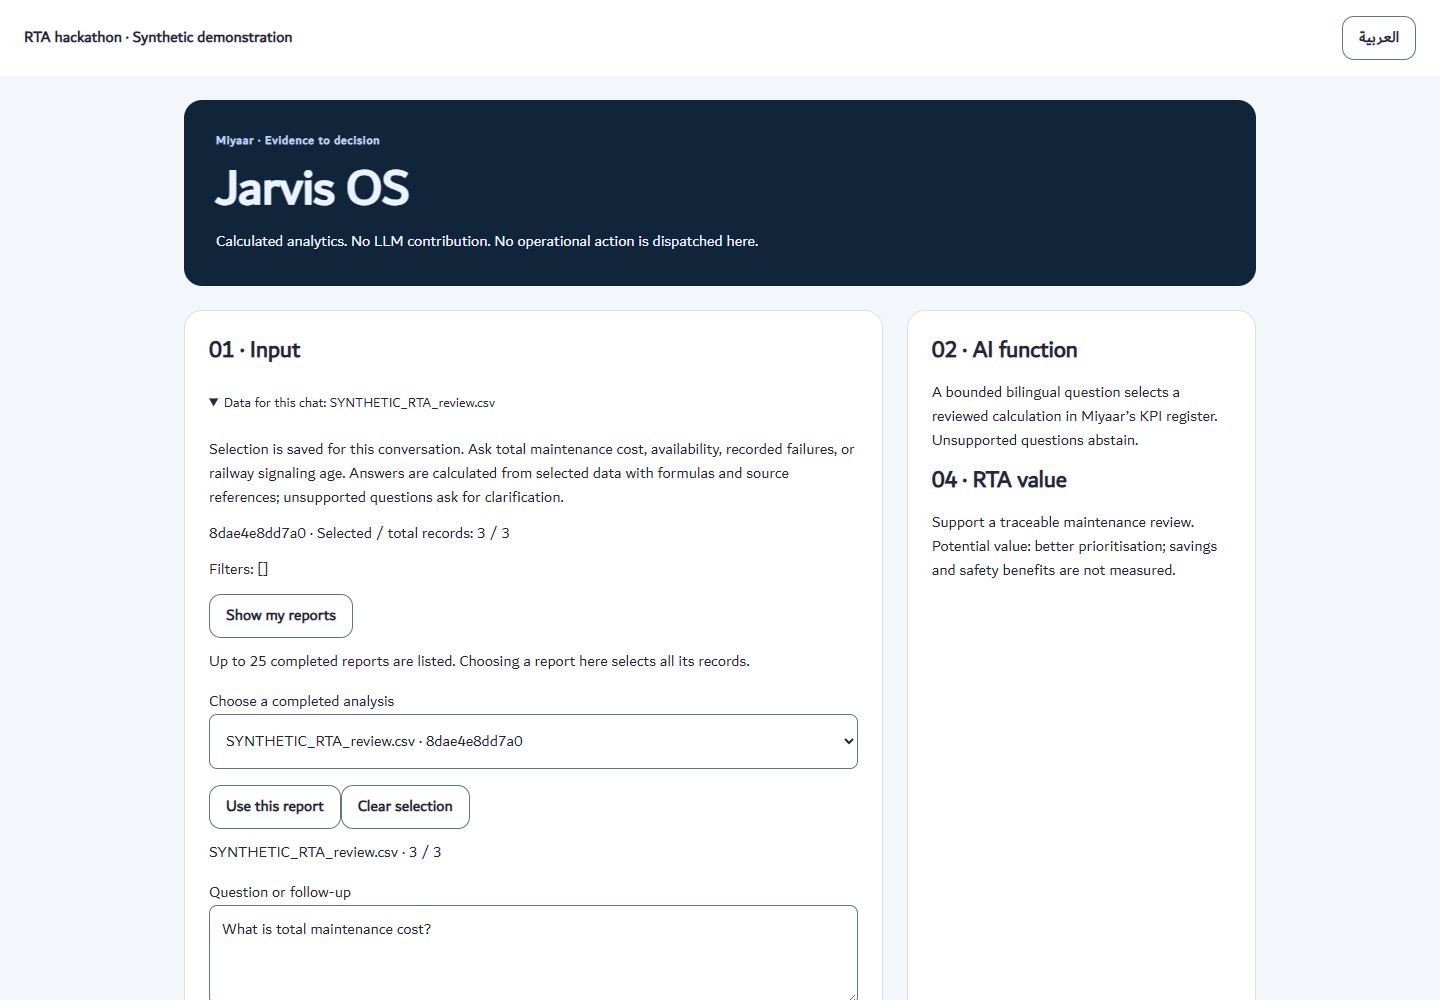
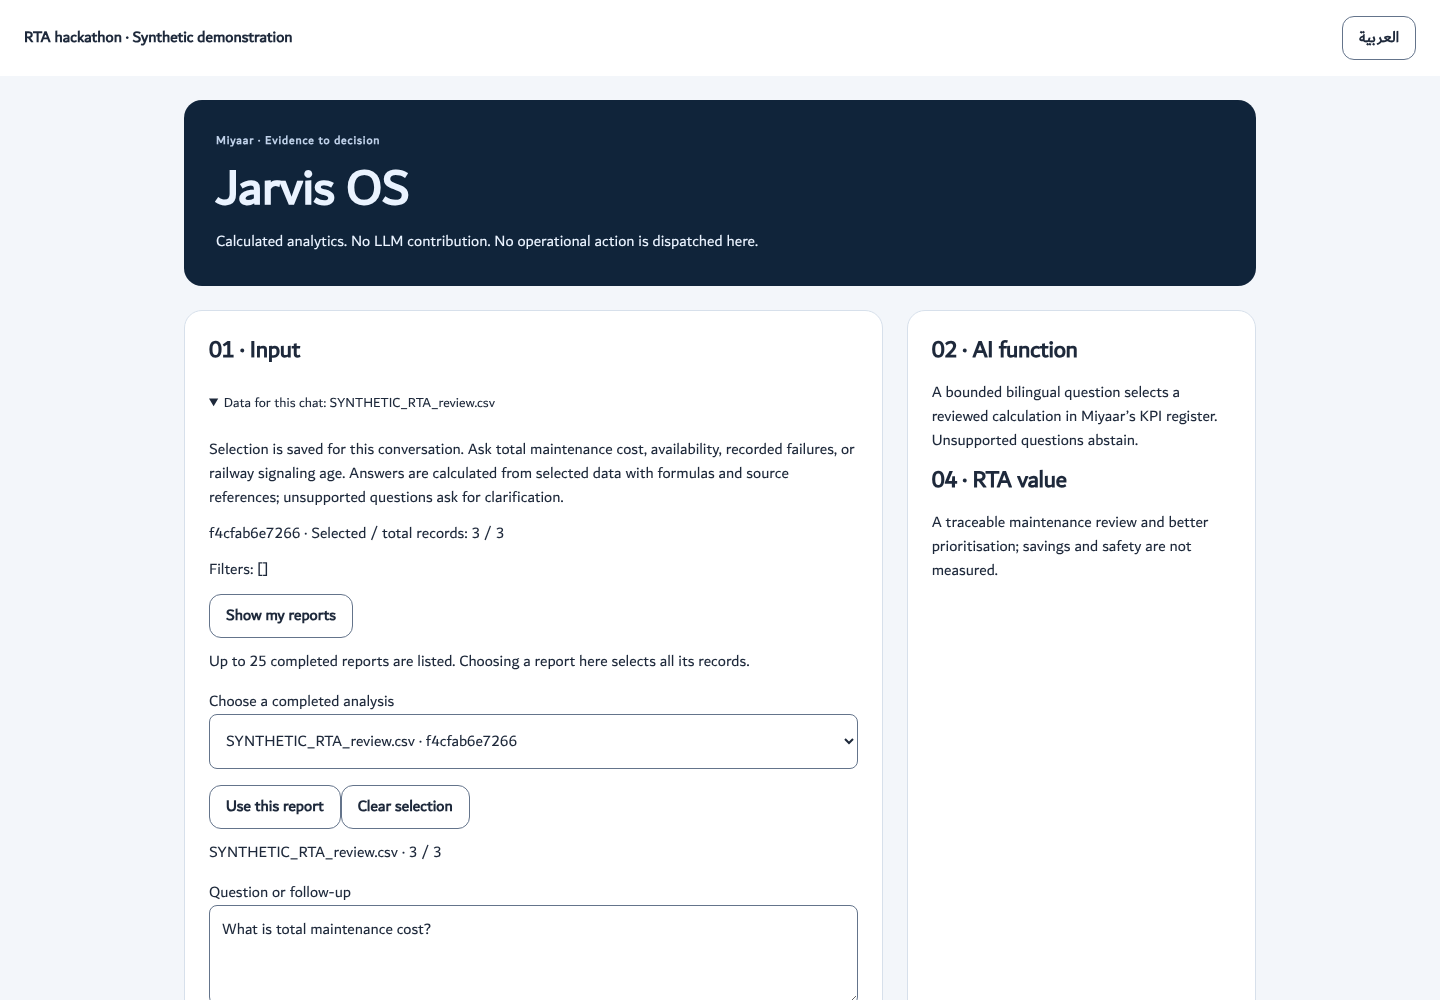
fix: keep Jarvis out of the first-load bundle so the budget passes
The first version added 465 bytes to first-load JavaScript (100,042 of
100,000), failing the Interface budget step in CI, RMD evidence checks
and UI Budget Fast. The Jarvis query transport moves from the shared API
module into the lazy Jarvis chunk (exposed as jarvisApi.query, which also
removes the shared module's import from a feature), and four strings are
shortened in both languages with the same meaning. First load 99,956
bytes, total 262,966 bytes, stable across builds; the five Jarvis browser
journeys pass and the screenshots are refreshed for the shortened text.

Claude-Session: https://claude.ai/code/session_013QuA9ZJjZFprHsrGeG8vHp

diff --git a/frontend/src/features/chat/JarvisWorkspace.test.tsx b/frontend/src/features/chat/JarvisWorkspace.test.tsx
@@ -1,7 +1,6 @@
 import { act, fireEvent, render, screen, waitFor } from '@testing-library/react'
 import { beforeEach, expect, it, vi } from 'vitest'
-import { JarvisWorkspace, type JarvisAnswer } from './JarvisWorkspace'
-import { api } from '../../shared/api'
+import { JarvisWorkspace, jarvisApi, type JarvisAnswer } from './JarvisWorkspace'
 import type { SessionState } from '../../shared/types'
 import { applyLocale } from '../../i18n'
 import { dataChatMessages } from './dataChatMessages'
@@ -13,12 +12,12 @@ const result: JarvisAnswer = { text: '500 · https://example.invalid/ref · ops@
 beforeEach(() => { vi.restoreAllMocks(); applyLocale('en') })
 function question() { fireEvent.change(screen.getByRole('textbox'), { target: { value: 'What is total maintenance cost?' } }) }
 it('preserves evidence, separates speech and confirms only an explicit local review', async () => {
-  vi.spyOn(api, 'jarvisQuery').mockResolvedValue(result)
+  vi.spyOn(jarvisApi, 'query').mockResolvedValue(result)
   render(<JarvisWorkspace session={session} />); question()
   fireEvent.click(screen.getByRole('button', { name: 'Calculate from selected report' }))
   await screen.findByText(result.text)
   expect(screen.getByText(/Maintenance cost: 500 unit not declared/)).toHaveTextContent('Measurement coverage is unavailable')
-  expect(api.jarvisQuery).toHaveBeenCalledWith('s1', 'What is total maintenance cost?', context, 'en', expect.any(AbortSignal))
+  expect(jarvisApi.query).toHaveBeenCalledWith('s1', 'What is total maintenance cost?', context, 'en', expect.any(AbortSignal))
   expect(screen.getByRole('button', { name: 'Confirm local review' })).toBeDisabled()
   fireEvent.click(screen.getByRole('checkbox'))
   fireEvent.click(screen.getByRole('button', { name: 'Confirm local review' }))
@@ -29,7 +28,7 @@ it('preserves evidence, separates speech and confirms only an explicit local rev
 })
 it('deduplicates active requests and ignores late replies after interrupt', async () => {
   let resolve!: (value: JarvisAnswer) => void
-  const call = vi.spyOn(api, 'jarvisQuery').mockReturnValue(new Promise(r => { resolve = r }))
+  const call = vi.spyOn(jarvisApi, 'query').mockReturnValue(new Promise(r => { resolve = r }))
   render(<JarvisWorkspace session={session} />); question()
   const ask = screen.getByRole('button', { name: 'Calculate from selected report' })
   fireEvent.click(ask); fireEvent.click(ask); expect(call).toHaveBeenCalledTimes(1)
@@ -40,7 +39,7 @@ it('deduplicates active requests and ignores late replies after interrupt', asyn
 })
 it('invalidates answer on dataset changes and suppresses errors from superseded requests', async () => {
   let reject!: (reason: Error) => void
-  vi.spyOn(api, 'jarvisQuery').mockReturnValue(new Promise((_,r) => { reject = r }))
+  vi.spyOn(jarvisApi, 'query').mockReturnValue(new Promise((_,r) => { reject = r }))
   const view = render(<JarvisWorkspace session={session} />); question()
   fireEvent.click(screen.getByRole('button', { name: 'Calculate from selected report' }))
   view.rerender(<JarvisWorkspace session={{ ...session, data_context: { ...context, dataset_name: 'NEW.csv', analysis_revision: 'c'.repeat(64) } }} />)
@@ -49,7 +48,7 @@ it('invalidates answer on dataset changes and suppresses errors from superseded 
   expect(screen.getByRole('textbox')).toHaveValue('')
 })
 it('shows unavailable service without making up output', async () => {
-  vi.spyOn(api, 'jarvisQuery').mockRejectedValue(new Error('offline'))
+  vi.spyOn(jarvisApi, 'query').mockRejectedValue(new Error('offline'))
   render(<JarvisWorkspace session={session} />); question()
   fireEvent.click(screen.getByRole('button', { name: 'Calculate from selected report' }))
   await waitFor(() => expect(screen.getByRole('alert')).toHaveTextContent('No answer was confirmed'))

diff --git a/frontend/src/i18n/jarvis.ts b/frontend/src/i18n/jarvis.ts
@@ -4,14 +4,14 @@ export const jarvisMessages = definePack({
   boundary: 'Calculated analytics. No LLM contribution. No operational action is dispatched here.',
   input: '01 · Input', function: '02 · AI function', output: '03 · Output', value: '04 · RTA value',
   functionText: 'A bounded bilingual question selects a reviewed calculation in Miyaar’s KPI register. Unsupported questions abstain.',
-  valueText: 'Support a traceable maintenance review. Potential value: better prioritisation; savings and safety benefits are not measured.',
+  valueText: 'A traceable maintenance review and better prioritisation; savings and safety are not measured.',
   question: 'Question or follow-up', ask: 'Calculate from selected report', cost: 'What is total maintenance cost?',
   follow: 'What is availability?', missing: 'Predict failures tomorrow', prompt: 'Choose a report, then ask a supported question.',
   stop: 'Stop / interrupt', muted: 'Mute audio', unmute: 'Enable audio controls', working: 'Calculating…',
   failed: 'Service unavailable or context changed. Reload the report selection and retry. No answer was confirmed.',
   stopped: 'Request interrupted. No answer retained. This read-only calculation does not change reports.',
   result: 'Calculated evidence', source: 'Source and scope',
-  review: 'Human review', recommendation: 'Proposed next step: check the recorded costs, downtime and source completeness with the maintenance owner before choosing an intervention.',
+  review: 'Human review', recommendation: 'Next step: check costs, downtime and source completeness with the maintenance owner before any intervention.',
   acknowledge: 'I reviewed the evidence and its limitations', confirm: 'Confirm local review', confirmed: 'Review confirmed for this answer in this browser tab only. No approval, publication or work order was created.',
   reviewLimit: 'Review resets when the question, report or language changes. It is not an engineering approval.',
   noValue: 'Not measured', speech: 'Spoken summary', speechHelp: 'Speech uses a separate summary. Full references, URLs and IDs remain unchanged in the evidence.',
@@ -27,7 +27,7 @@ export const jarvisMessages = definePack({
   boundary: 'تحليلات محسوبة دون مساهمة نموذج لغوي. لا يُرسل أي إجراء تشغيلي من هنا.',
   input: '01 · المدخلات', function: '02 · وظيفة الذكاء الاصطناعي', output: '03 · المخرجات', value: '04 · القيمة لهيئة الطرق والمواصلات',
   functionText: 'يختار سؤال محدد بالعربية أو الإنجليزية عملية حسابية مراجعة من سجل مؤشرات معيار. الأسئلة غير المدعومة لا تنتج تخمينات.',
-  valueText: 'دعم مراجعة صيانة قابلة للتتبع. القيمة المحتملة: تحسين ترتيب الأولويات؛ لم تُقَس وفورات أو فوائد للسلامة.',
+  valueText: 'مراجعة صيانة قابلة للتتبع وترتيب أفضل للأولويات؛ لم تُقَس الوفورات أو السلامة.',
   question: 'السؤال أو سؤال المتابعة', ask: 'احسب من التقرير المحدد', cost: 'ما إجمالي تكلفة الصيانة؟',
   follow: 'ما هو التوافر؟', missing: 'توقع الأعطال غداً', prompt: 'اختر تقريراً ثم اطرح سؤالاً مدعوماً.',
   stop: 'إيقاف / مقاطعة', muted: 'كتم الصوت', unmute: 'تفعيل أدوات الصوت', working: 'جارٍ الحساب…',

diff --git a/frontend/src/features/chat/JarvisWorkspace.tsx b/frontend/src/features/chat/JarvisWorkspace.tsx
@@ -1,5 +1,5 @@
 import { useEffect, useRef, useState } from 'react'
-import { api } from '../../shared/api'
+import { request as send } from '../../shared/api'
 import type { DataContext, SessionState } from '../../shared/types'
 import { usePack } from '../../i18n/pack'
 import { jarvisMessages } from '../../i18n/jarvis'
@@ -17,7 +17,16 @@ export interface JarvisAnswer {
       records_unmeasured?: number; scale?: string; reason?: string }[] }
 }
 
-/** Read-only query transport; selection uses Miyaar's existing permission-bound API. */
+/** Read-only query transport, kept in this lazy chunk so first load stays within budget. */
+export const jarvisApi = { query: (id: string, text: string, context: DataContext, language: 'en' | 'ar', signal: AbortSignal) =>
+  send<JarvisAnswer>(`/api/sessions/${encodeURIComponent(id)}/data-query`, {
+    method: 'POST', body: JSON.stringify({ text, language, scope: {
+      run_id: context.run_id, dataset_id: context.dataset_id, source_sha256: context.source_sha256,
+      analysis_revision: context.analysis_revision, filters: context.filters,
+    } }), signal,
+  }) }
+
+/** Selection uses Miyaar's existing permission-bound API. */
 export function JarvisWorkspace({ session, disabled = false }: { session: SessionState; disabled?: boolean }) {
   const { t, locale } = usePack(jarvisMessages)
   const readOnly = useReadOnly()
@@ -47,7 +56,7 @@ export function JarvisWorkspace({ session, disabled = false }: { session: Sessio
     const controller = new AbortController(); request.current = controller
     setStatus('working'); setAsked(draft.trim())
     try {
-      const result = await api.jarvisQuery(session.session_id, draft.trim(), context, locale, controller.signal)
+      const result = await jarvisApi.query(session.session_id, draft.trim(), context, locale, controller.signal)
       if (token !== generation.current) return
       setAnswer(result); setStatus('idle')
     } catch { if (token === generation.current) setStatus('failed') }

diff --git a/frontend/src/shared/api.ts b/frontend/src/shared/api.ts
@@ -1,6 +1,5 @@
-import type { JarvisAnswer } from '../features/chat/JarvisWorkspace'
 import { translate } from '../i18n'
-import type { AuthConfig, ColumnMapping, DataContext, DataContextChoices, DatasetDetail, DatasetSummary, ExportPayload, IdentityInfo, JoinPreview, JoinSpec,
+import type { AuthConfig, ColumnMapping, DataContextChoices, DatasetDetail, DatasetSummary, ExportPayload, IdentityInfo, JoinPreview, JoinSpec,
   KpiPolicy, MappingProblem, Pipelines, QueryAnswer, QuerySpec, RecordsPage, RecordsSpec, RunAssumptions, RunDetail, RunExecutive, RunKpis, RunSummary, SavedView, SessionState, TableField, TableFilter, TranscriptEntry, UploadResult, Usage } from './types'
 
 export const API_BASE = import.meta.env.VITE_API_BASE ?? ''
@@ -208,13 +207,6 @@ export const api = {
       body: JSON.stringify({ language: language ?? null }),
     }),
   getSession: (id: string) => request<SessionState>(`/api/sessions/${id}`),
-  jarvisQuery: (id: string, text: string, context: DataContext, language: 'en' | 'ar', signal: AbortSignal) =>
-    request<JarvisAnswer>(`/api/sessions/${encodeURIComponent(id)}/data-query`, {
-      method: 'POST', body: JSON.stringify({ text, language, scope: {
-        run_id: context.run_id, dataset_id: context.dataset_id, source_sha256: context.source_sha256,
-        analysis_revision: context.analysis_revision, filters: context.filters,
-      } }), signal,
-    }),
   dataContext: (id: string) => request<DataContextChoices>(`/api/sessions/${id}/data-context`),
   selectDataContext: (id: string, runId: string | null) => request<SessionState>(`/api/sessions/${id}/data-context`, {
     method: 'PUT', body: JSON.stringify({ run_id: runId, filters: [] }),

diff --git a/frontend/src/i18n/ar.ts b/frontend/src/i18n/ar.ts
@@ -10,7 +10,7 @@ import type { MessageKey, PluralForms, PluralKey } from './en'
 
 export const ar: Record<MessageKey, string> = {
   'jarvis.launch': 'فتح Jarvis OS',
-  'jarvis.close': 'العودة إلى محادثة معيار',
+  'jarvis.close': 'العودة إلى المحادثة',
   'nav.sources': 'مصادر البيانات',
   'nav.evidence': 'التحليل والأدلة',
   'nav.priorities': 'الأولويات والإجراءات',

diff --git a/frontend/src/i18n/en.ts b/frontend/src/i18n/en.ts
@@ -8,7 +8,7 @@
  *  preference (agent.py). */
 export const en = {
   'jarvis.launch': 'Open Jarvis OS',
-  'jarvis.close': 'Back to Miyaar conversation',
+  'jarvis.close': 'Back to conversation',
   'nav.sources': 'Data sources',
   'nav.evidence': 'Analysis & evidence',
   'nav.priorities': 'Priorities & actions',

diff --git a/docs/adr/2026-11-02-jarvis-evidence-workspace.md b/docs/adr/2026-11-02-jarvis-evidence-workspace.md
@@ -10,6 +10,6 @@ The opt-in synthetic launcher creates a NEW directory and SQLite database, compu
 
 Voice uses the reviewed browser push-to-talk component with its explicit provider disclosure, consent, editable transcript, denial and text fallback. Audio controls default muted. Interrupt/mute unmounts capture and playback. Read-aloud has no automatic fallback to a remote voice: a matching device voice with localService=true is required. Speech has a separate summary retaining units, declared or unknown currency, selected and measured record coverage, and missing-data reasons; displayed evidence, URLs, emails, hashes and IDs are retained literally. Physical microphone and Arabic pronunciation need device acceptance.
 
-Initial JavaScript/CSS budgets remain unchanged. Lazy Jarvis views and bilingual strings justify a bounded total allocation from 258 to 263 KB JavaScript and 35 to 35.7 KB CSS. These total-only allocations include the synthetic entrance. No dependency is added. The installed toolchain may differ from lockfile versions; record local evidence separately from hosted reproducible CI.
+Initial JavaScript/CSS budgets remain unchanged. A review on 2 November measured the first version at 100,042 bytes of first-load JavaScript against the 100 KB ceiling, failing CI's budget step; the query transport moved from the shared API module into the lazy Jarvis chunk and four strings were shortened, giving 99,956 first-load and 262,966 total bytes. Lazy Jarvis views and bilingual strings justify a bounded total allocation from 258 to 263 KB JavaScript and 35 to 35.7 KB CSS. These total-only allocations include the synthetic entrance. No dependency is added. The installed toolchain may differ from lockfile versions; record local evidence separately from hosted reproducible CI.
 
 Tests cover synthetic arithmetic, missing measurements, unsupported predictions, permissions, stale sources, repeated requests, cancellation, UI reset, English/Arabic RTL, phone overflow and mocked denied microphone access. See README for executed evidence. None validates actual LLM inference, engineering safety, operational savings, production identity or database recovery.
